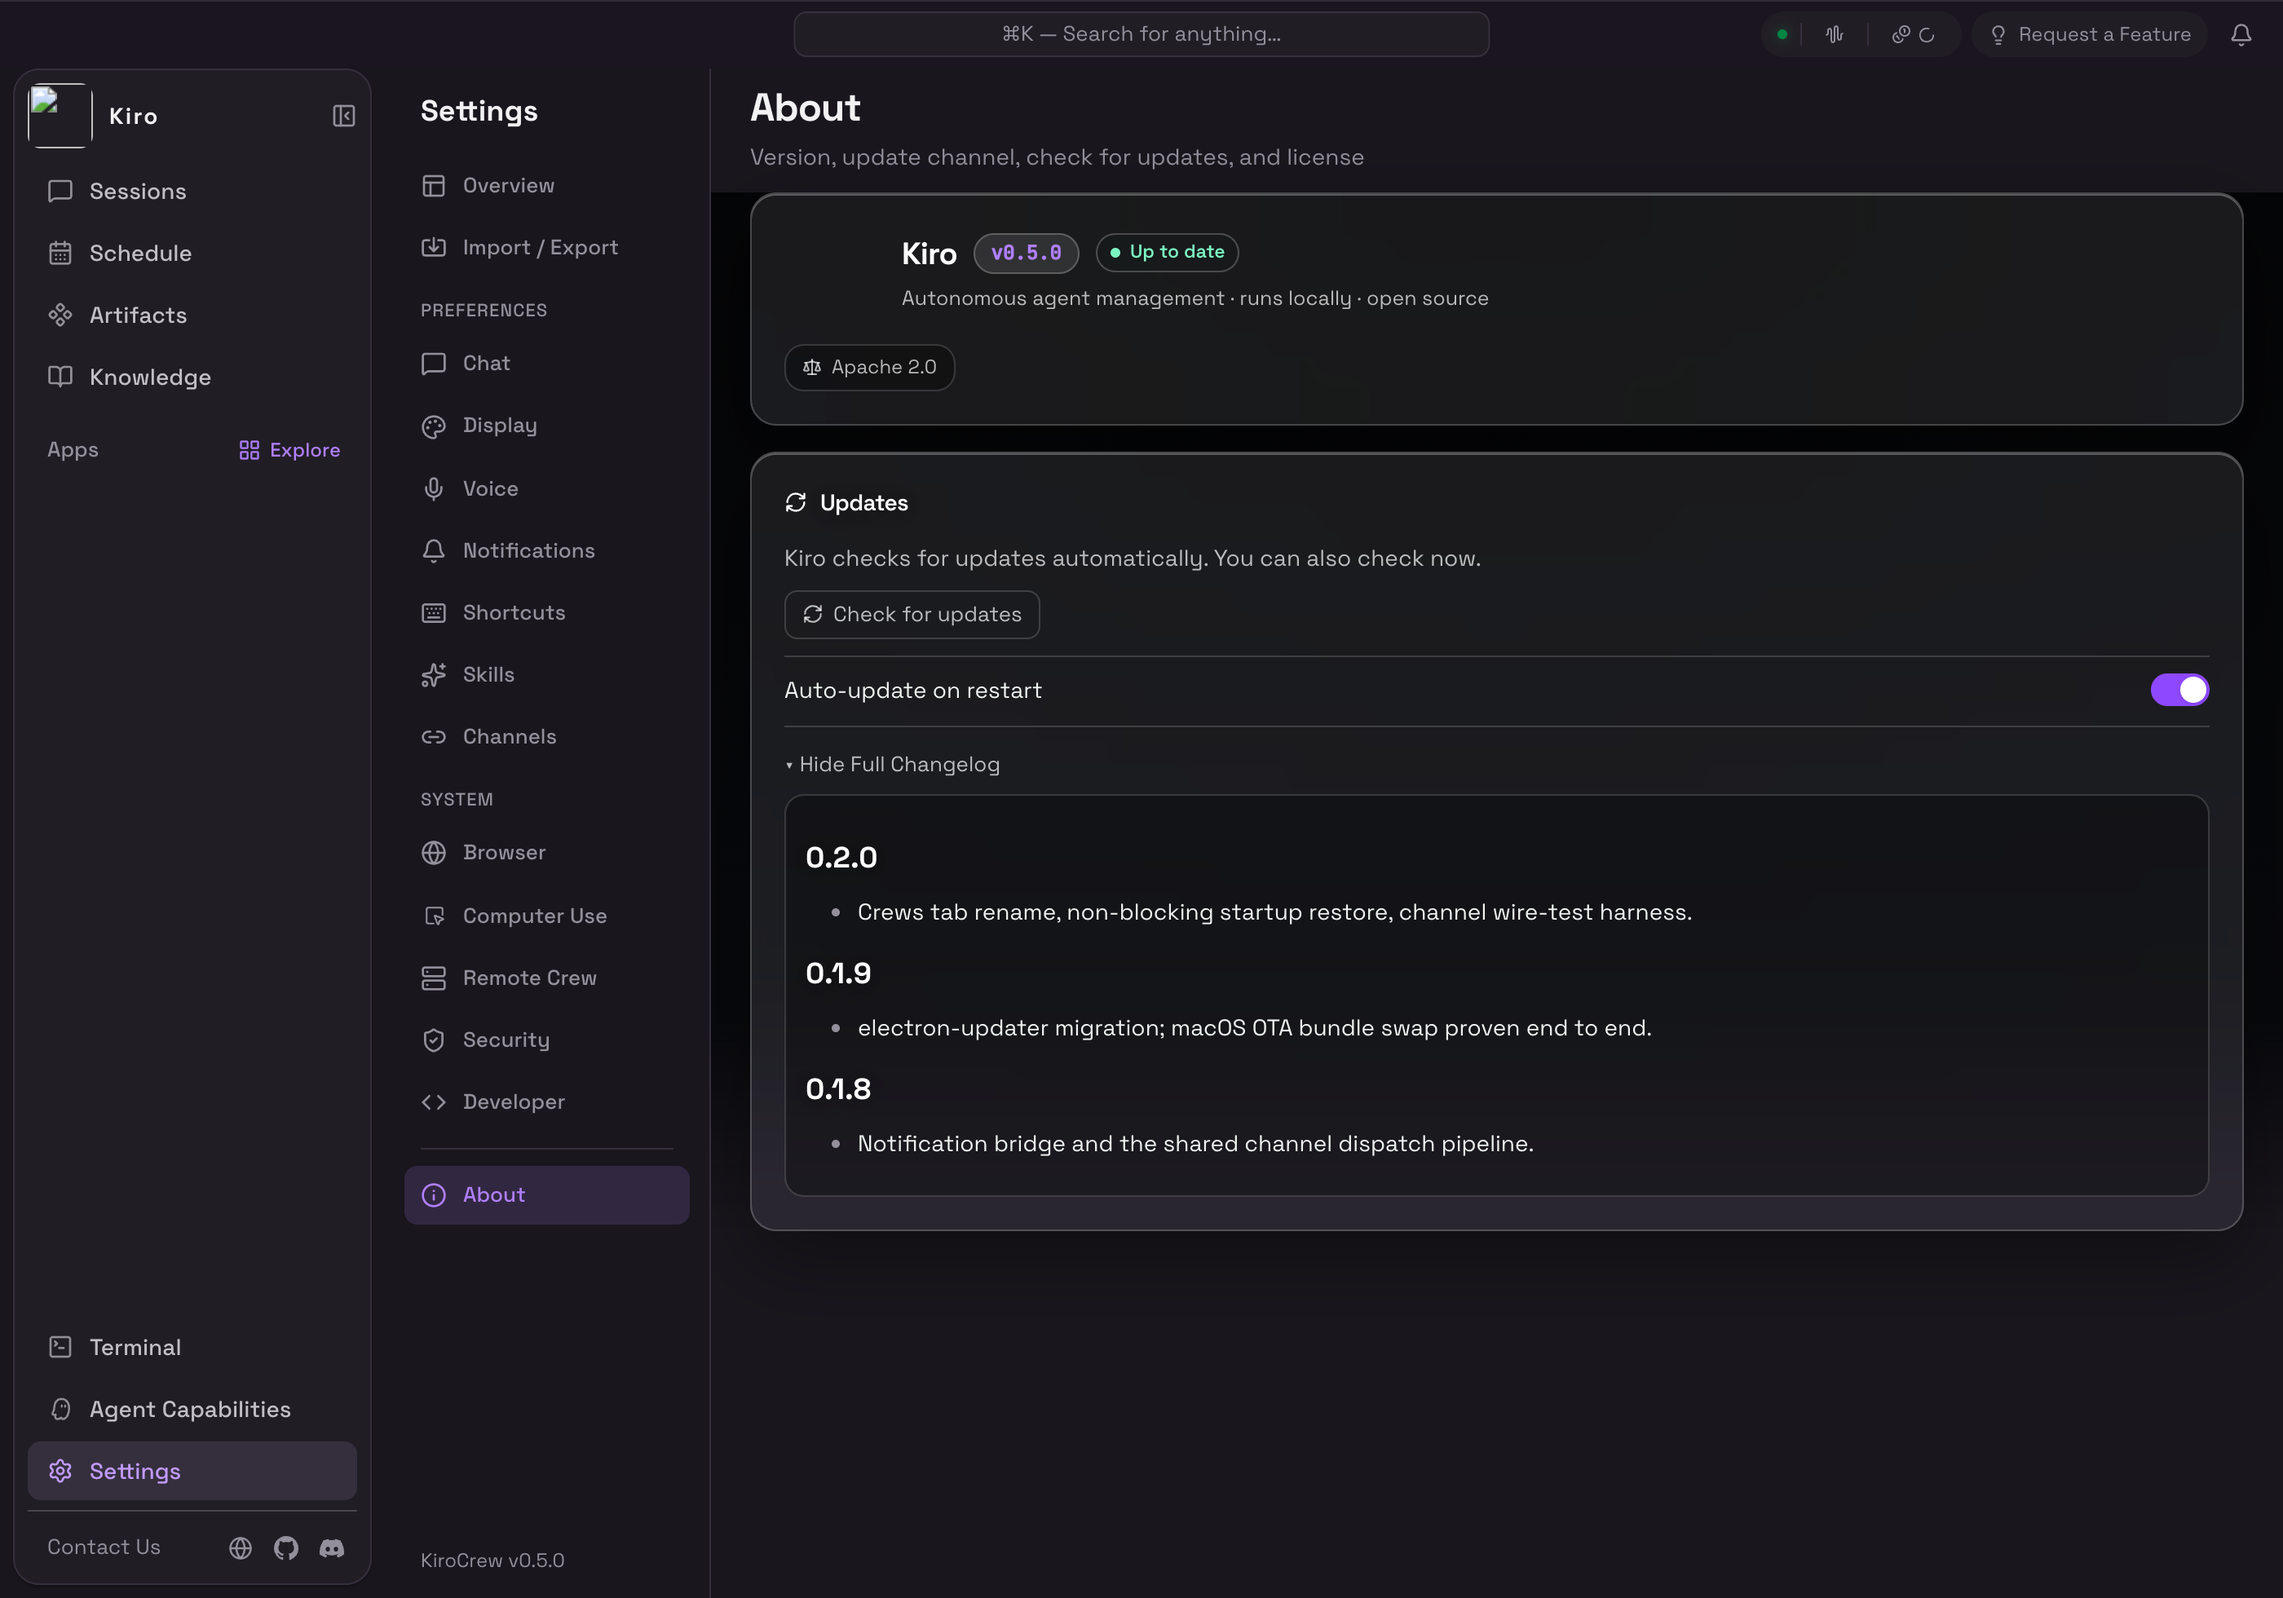
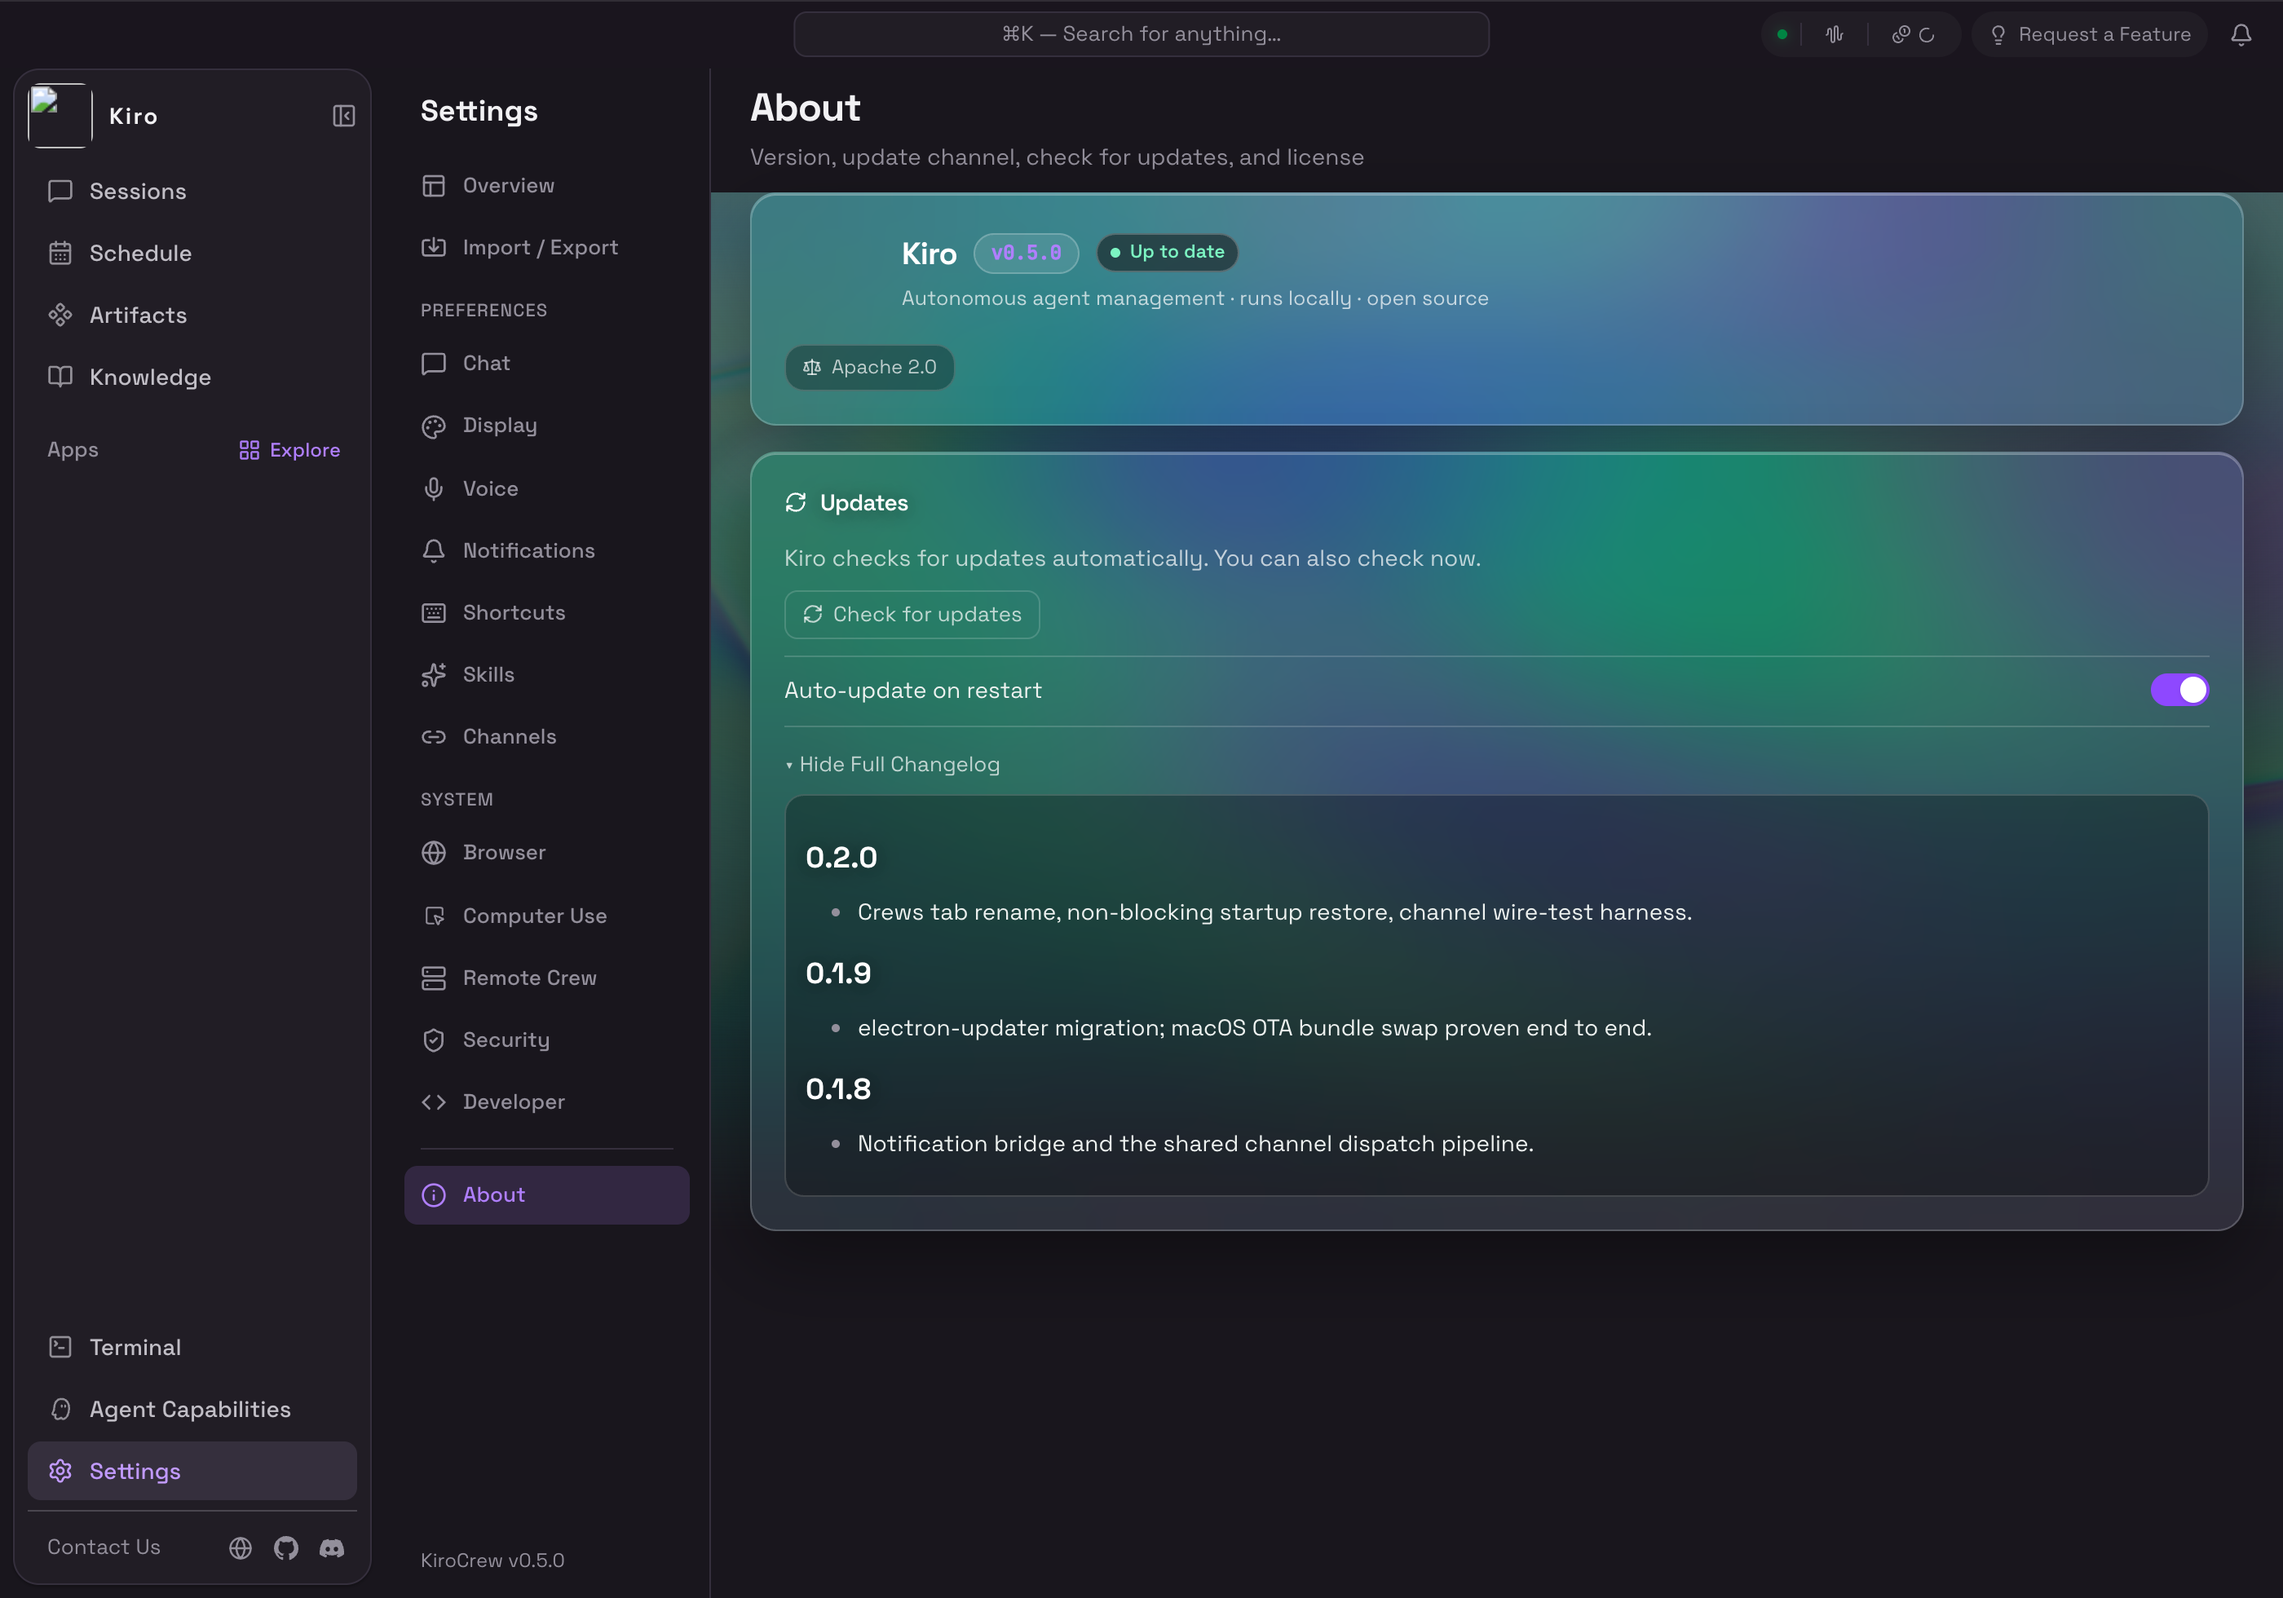
fix(dashboard): guarantee About stays legible without the shader
Addresses the three findings both advisory reviewers raised on #897.
GPT 5.6, Opus 5 and Arbiter were clean.

1. White-on-glass text over a backing that was not guaranteed.
   .about-glass forces white text, but the darkness it assumed came
   from the shader — which is conditional. Iridescence bails when
   WebGL is unavailable (corporate policy, software rendering, remote
   desktops) and the scrim alone would have sat over #fafafa on a
   light theme, giving white-on-near-white for those users on every
   visit. The backdrop container now carries an opaque #0b0d12 base,
   so the subtree is unconditionally dark in every theme with or
   without a GPU. index.css states the invariant.

2. Hero contrast through the loop. The hero sits where the scrim is
   lightest and the background moves, so a single frame could not
   prove the tagline stays readable. Raised the scrim's top floor
   from .18 to .30.

3. The reduced-motion frame rendered black. Two real bugs, not a bad
   uTime — a brightness sweep showed the shader is bright at every t
   including the value in use:

   - the single frame was drawn before the canvas entered the
     document, so the first composite discarded it (no
     preserveDrawingBuffer). It is now drawn after append, inside a
     rAF, and preserveDrawingBuffer is enabled ONLY on the static
     path, where the per-frame cost does not apply.
   - resizing a canvas clears it, and ResizeObserver's own first
[…]

diff --git a/website/src/components/Iridescence.tsx b/website/src/components/Iridescence.tsx
@@ -66,6 +66,14 @@ export type IridescenceProps = {
   mouseReact?: boolean
   /** Upper bound on devicePixelRatio; this fills a panel, so 1 is plenty. */
   maxDpr?: number
+  /**
+   * uTime for the single frame drawn under prefers-reduced-motion. The shader's
+   * accumulator makes brightness a non-monotonic function of t, so this is
+   * chosen by measurement (see scripts/capture-about-iridescence.mjs, which
+   * reports mean backdrop brightness per scene) rather than by taste — a bad
+   * value renders near-black and reads as a broken canvas.
+   */
+  staticTime?: number
   className?: string
 }
 
@@ -75,6 +83,7 @@ export function Iridescence({
   amplitude = 0.1,
   mouseReact = true,
   maxDpr = 1,
+  staticTime = 3.5,
   className = '',
 }: IridescenceProps) {
   const hostRef = useRef<HTMLDivElement>(null)
@@ -88,9 +97,19 @@ export function Iridescence({
     const probe = document.createElement('canvas')
     if (!probe.getContext('webgl') && !probe.getContext('experimental-webgl')) return
 
+    const reduced = window.matchMedia?.('(prefers-reduced-motion: reduce)').matches ?? false
+
     let renderer: Renderer
     try {
-      renderer = new Renderer({ alpha: false, powerPreference: 'low-power' })
+      renderer = new Renderer({
+        alpha: false,
+        powerPreference: 'low-power',
+        // Only for the static path. A single frame drawn into a normal (unpreserved)
+        // backbuffer is discarded at the first composite, so reduced-motion users
+        // would get a black panel. When we are looping this stays off, because
+        // preserving the buffer every frame costs bandwidth for nothing.
+        preserveDrawingBuffer: reduced,
+      })
     } catch {
       return
     }
@@ -115,6 +134,12 @@ export function Iridescence({
     })
     const mesh = new Mesh(gl, { geometry: new Triangle(gl), program })
 
+    // Draws the single frame used when motion is suppressed.
+    const renderStatic = () => {
+      program.uniforms.uTime.value = staticTime
+      renderer.render({ scene: mesh })
+    }
+
     const resize = () => {
       renderer.setSize(host.offsetWidth, host.offsetHeight)
       program.uniforms.uResolution.value = new Color(
@@ -122,6 +147,10 @@ export function Iridescence({
         gl.canvas.height,
         gl.canvas.width / gl.canvas.height,
       )
+      // Resizing a canvas CLEARS it. With no animation loop to redraw, the
+      // reduced-motion frame would be wiped — including by the ResizeObserver's
+      // own first async callback, which lands after the initial paint. Redraw.
+      if (reduced) renderStatic()
     }
     // ResizeObserver, not window.resize: the panel also changes width when the
     // chat sidebar or the side panel nav collapses, which fires no window event.
@@ -137,7 +166,7 @@ export function Iridescence({
     }
     if (mouseReact) host.addEventListener('mousemove', onMouseMove)
 
-    const reduced = window.matchMedia?.('(prefers-reduced-motion: reduce)').matches ?? false
+    const reducedMotion = reduced
 
     let raf = 0
     const frame = (t: number) => {
@@ -145,19 +174,8 @@ export function Iridescence({
       program.uniforms.uTime.value = t * 0.001
       renderer.render({ scene: mesh })
     }
-    const start = () => { if (!raf && !reduced) raf = requestAnimationFrame(frame) }
+    const start = () => { if (!raf && !reducedMotion) raf = requestAnimationFrame(frame) }
     const stop = () => { if (raf) { cancelAnimationFrame(raf); raf = 0 } }
-
-    if (reduced) {
-      // one static frame, at a t that lands on a pleasant part of the loop
-      program.uniforms.uTime.value = 2.4
-      renderer.render({ scene: mesh })
-    } else {
-      start()
-    }
-
-    const onVisibility = () => (document.hidden ? stop() : start())
-    document.addEventListener('visibilitychange', onVisibility)
 
     // ogl sizes the canvas via width/height attributes only; CSS-size it so it
     // fills the host box regardless of the dpr cap.
@@ -165,6 +183,18 @@ export function Iridescence({
     gl.canvas.style.height = '100%'
     gl.canvas.style.display = 'block'
     host.appendChild(gl.canvas)
+
+    if (reducedMotion) {
+      // One static frame, drawn AFTER the canvas is in the document and inside a
+      // rAF so it lands in a real composited frame. resize() also redraws it, so
+      // a later ResizeObserver callback cannot leave the panel blank.
+      requestAnimationFrame(renderStatic)
+    } else {
+      start()
+    }
+
+    const onVisibility = () => (document.hidden ? stop() : start())
+    document.addEventListener('visibilitychange', onVisibility)
 
     return () => {
       stop()
@@ -175,7 +205,7 @@ export function Iridescence({
       gl.getExtension('WEBGL_lose_context')?.loseContext()
     }
     // eslint-disable-next-line react-hooks/exhaustive-deps
-  }, [speed, amplitude, mouseReact, maxDpr, color[0], color[1], color[2]])
+  }, [speed, amplitude, mouseReact, maxDpr, staticTime, color[0], color[1], color[2]])
 
   return <div ref={hostRef} aria-hidden className={className} />
 }

diff --git a/website/src/pages/settings/AboutPanel.tsx b/website/src/pages/settings/AboutPanel.tsx
@@ -404,6 +404,14 @@ export function AboutPanel() {
           aria-hidden
           className="absolute -left-6 -right-6 top-0 bottom-0 z-0 overflow-hidden"
           style={{
+            // Opaque dark base, NOT decoration. The .about-glass text overrides
+            // are white-on-dark, and the darkness they assume comes from the
+            // shader — which is not guaranteed: Iridescence bails when WebGL is
+            // unavailable (corporate policy, software rendering, remote desktop),
+            // and on a light theme the scrim alone would sit over #fafafa. This
+            // base makes the subtree unconditionally dark so the overrides are
+            // always correct, in every theme, with or without a GPU.
+            background: '#0b0d12',
             maskImage: 'linear-gradient(to bottom, #000 calc(100% - 130px), transparent 100%)',
             WebkitMaskImage: 'linear-gradient(to bottom, #000 calc(100% - 130px), transparent 100%)',
           }}
@@ -414,12 +422,15 @@ export function AboutPanel() {
             speed={0.8}
           />
           {/* Scrim: darkens toward the bottom and edges so the lower cards don't
-              sit on the shader's brightest region. */}
+              sit on the shader's brightest region. The top floor is .30 rather
+              than lower because the hero sits there and the shader MOVES — the
+              tagline has to stay legible through the brightest part of the loop,
+              which a single screenshot cannot prove. */}
           <div
             className="absolute inset-0 pointer-events-none"
             style={{
               background:
-                'radial-gradient(120% 90% at 50% 0%, rgba(10,11,15,.18), rgba(10,11,15,.56) 62%, rgba(10,11,15,.78) 100%)',
+                'radial-gradient(120% 90% at 50% 0%, rgba(10,11,15,.30), rgba(10,11,15,.58) 62%, rgba(10,11,15,.78) 100%)',
             }}
           />
         </div>

diff --git a/website/src/index.css b/website/src/index.css
@@ -57,9 +57,19 @@
 /* ── Settings › About: frosted glass over the Iridescence backdrop ─────────
    The panel paints a bright animated shader behind the cards, so the normal
    text/border tokens (tuned for a #12141a surface) lose contrast. Scoped
-   overrides lift them to white-on-glass. Literal rgba() throughout: the theme
-   tokens are raw var(--x) with no <alpha-value>, so Tailwind opacity modifiers
-   would silently generate nothing here. */
+   overrides lift them to white-on-glass.
+
+   INVARIANT these overrides depend on: the .about-glass subtree is ALWAYS on a
+   dark base. AboutPanel guarantees that with an opaque #0b0d12 backdrop layer
+   rather than relying on the shader, which is conditional (no WebGL -> the
+   canvas never mounts) and theme-independent (a light theme would otherwise put
+   white text over #fafafa). Anything rendered inside .about-glass inherits
+   white-on-dark styling — if you add a surface here that needs its own palette,
+   render it outside the wrapper, as the update dialog does.
+
+   Literal rgba() throughout: the theme tokens are raw var(--x) with no
+   <alpha-value>, so Tailwind opacity modifiers would silently generate nothing
+   here. */
 .about-glass .text-muted{color:rgba(255,255,255,.7)}
 .about-glass .text-text{color:#eef2f0}
 .about-glass .text-text-strong{color:#fff}
